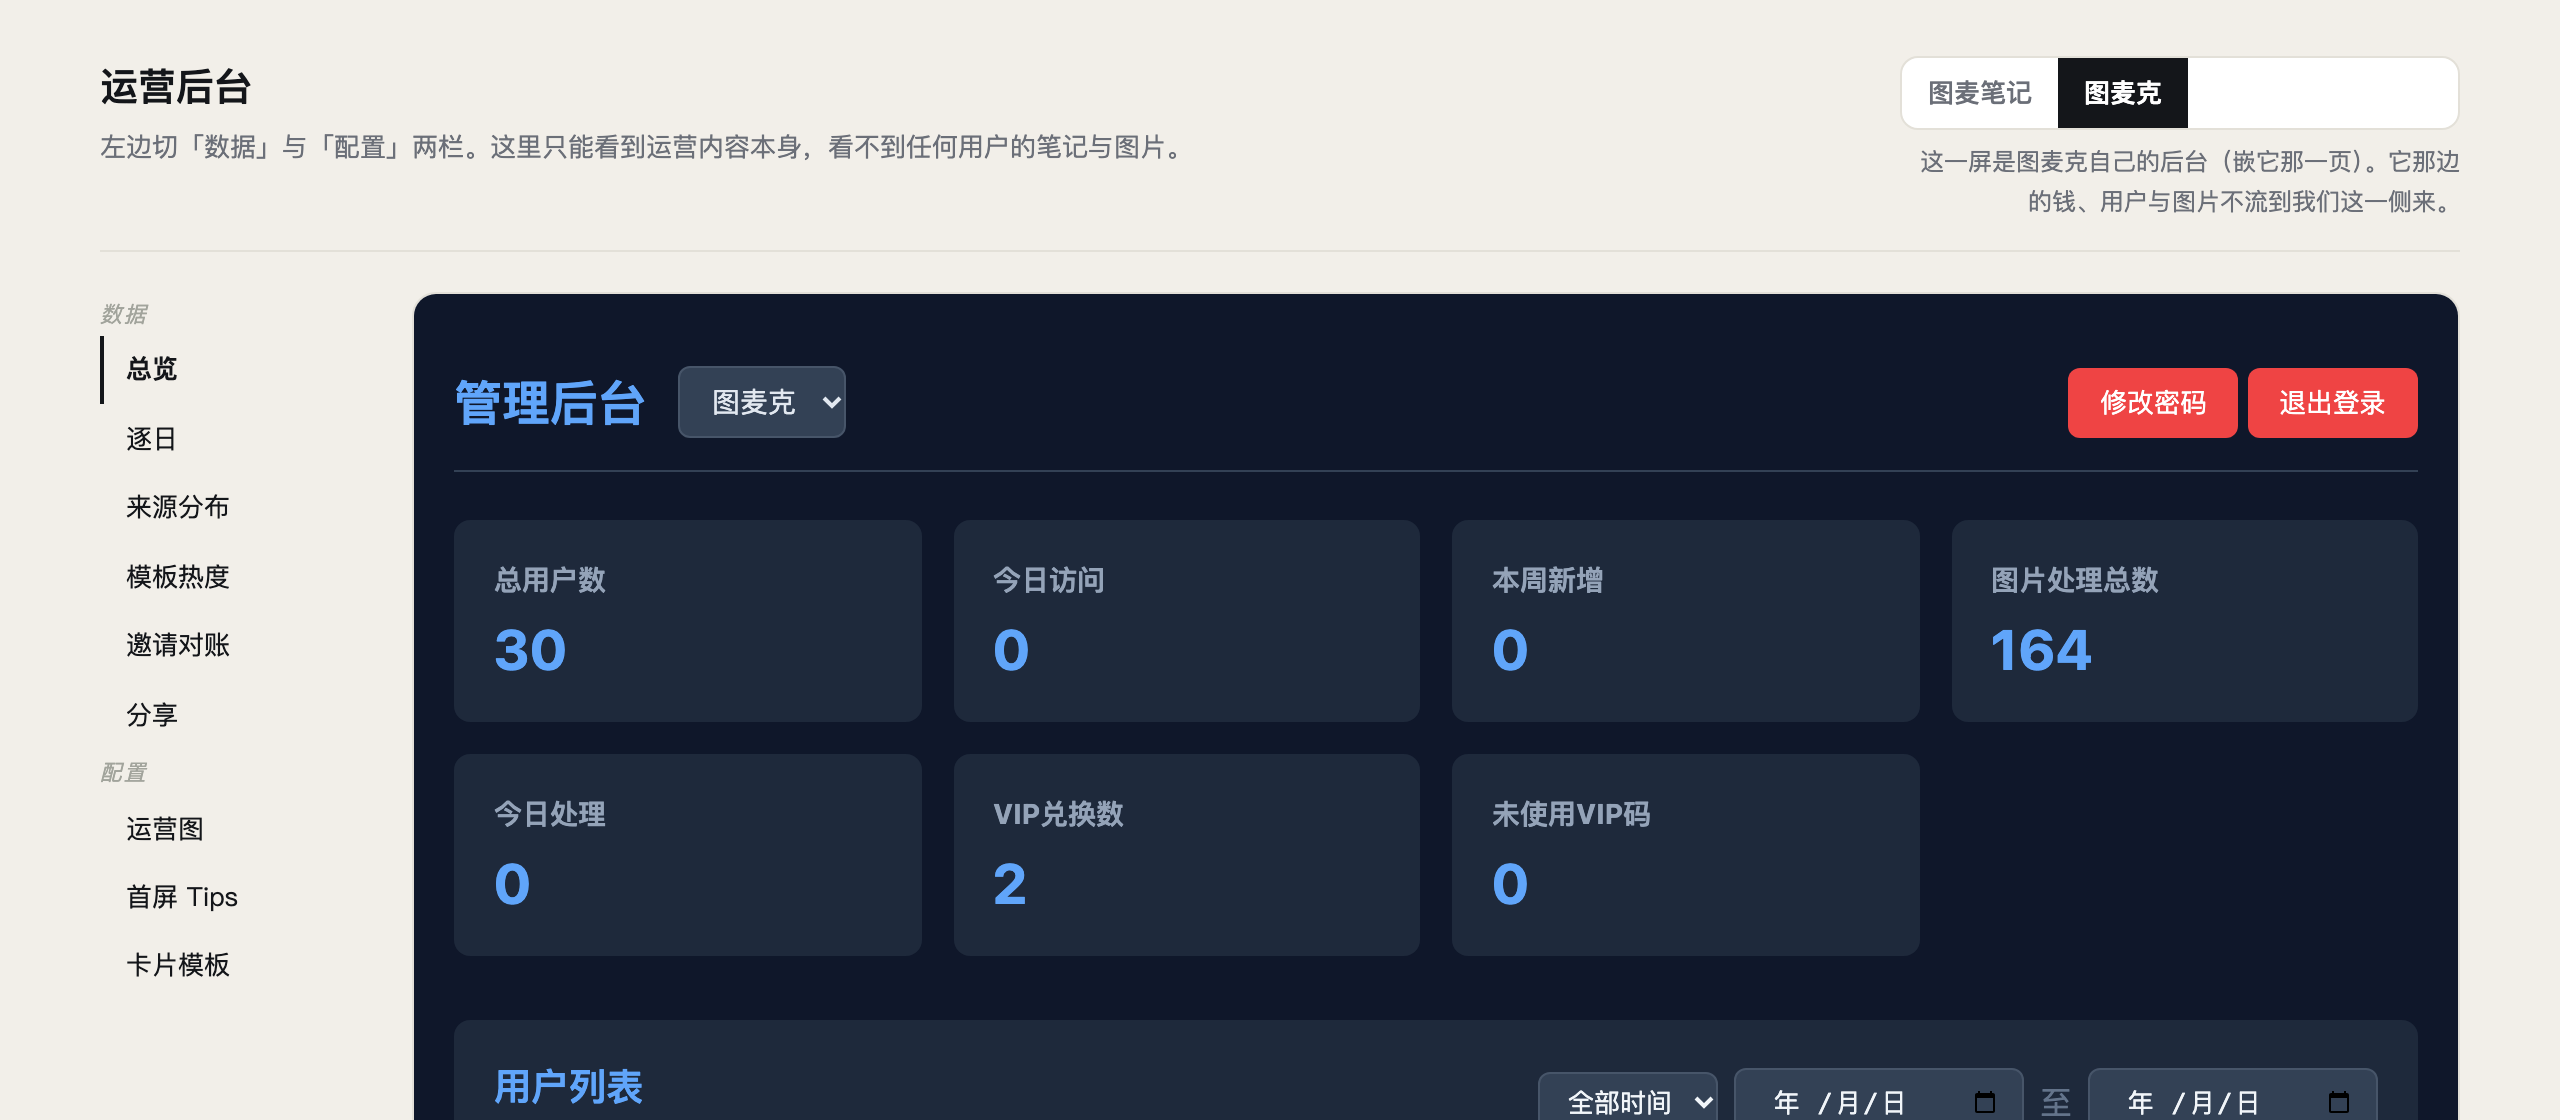
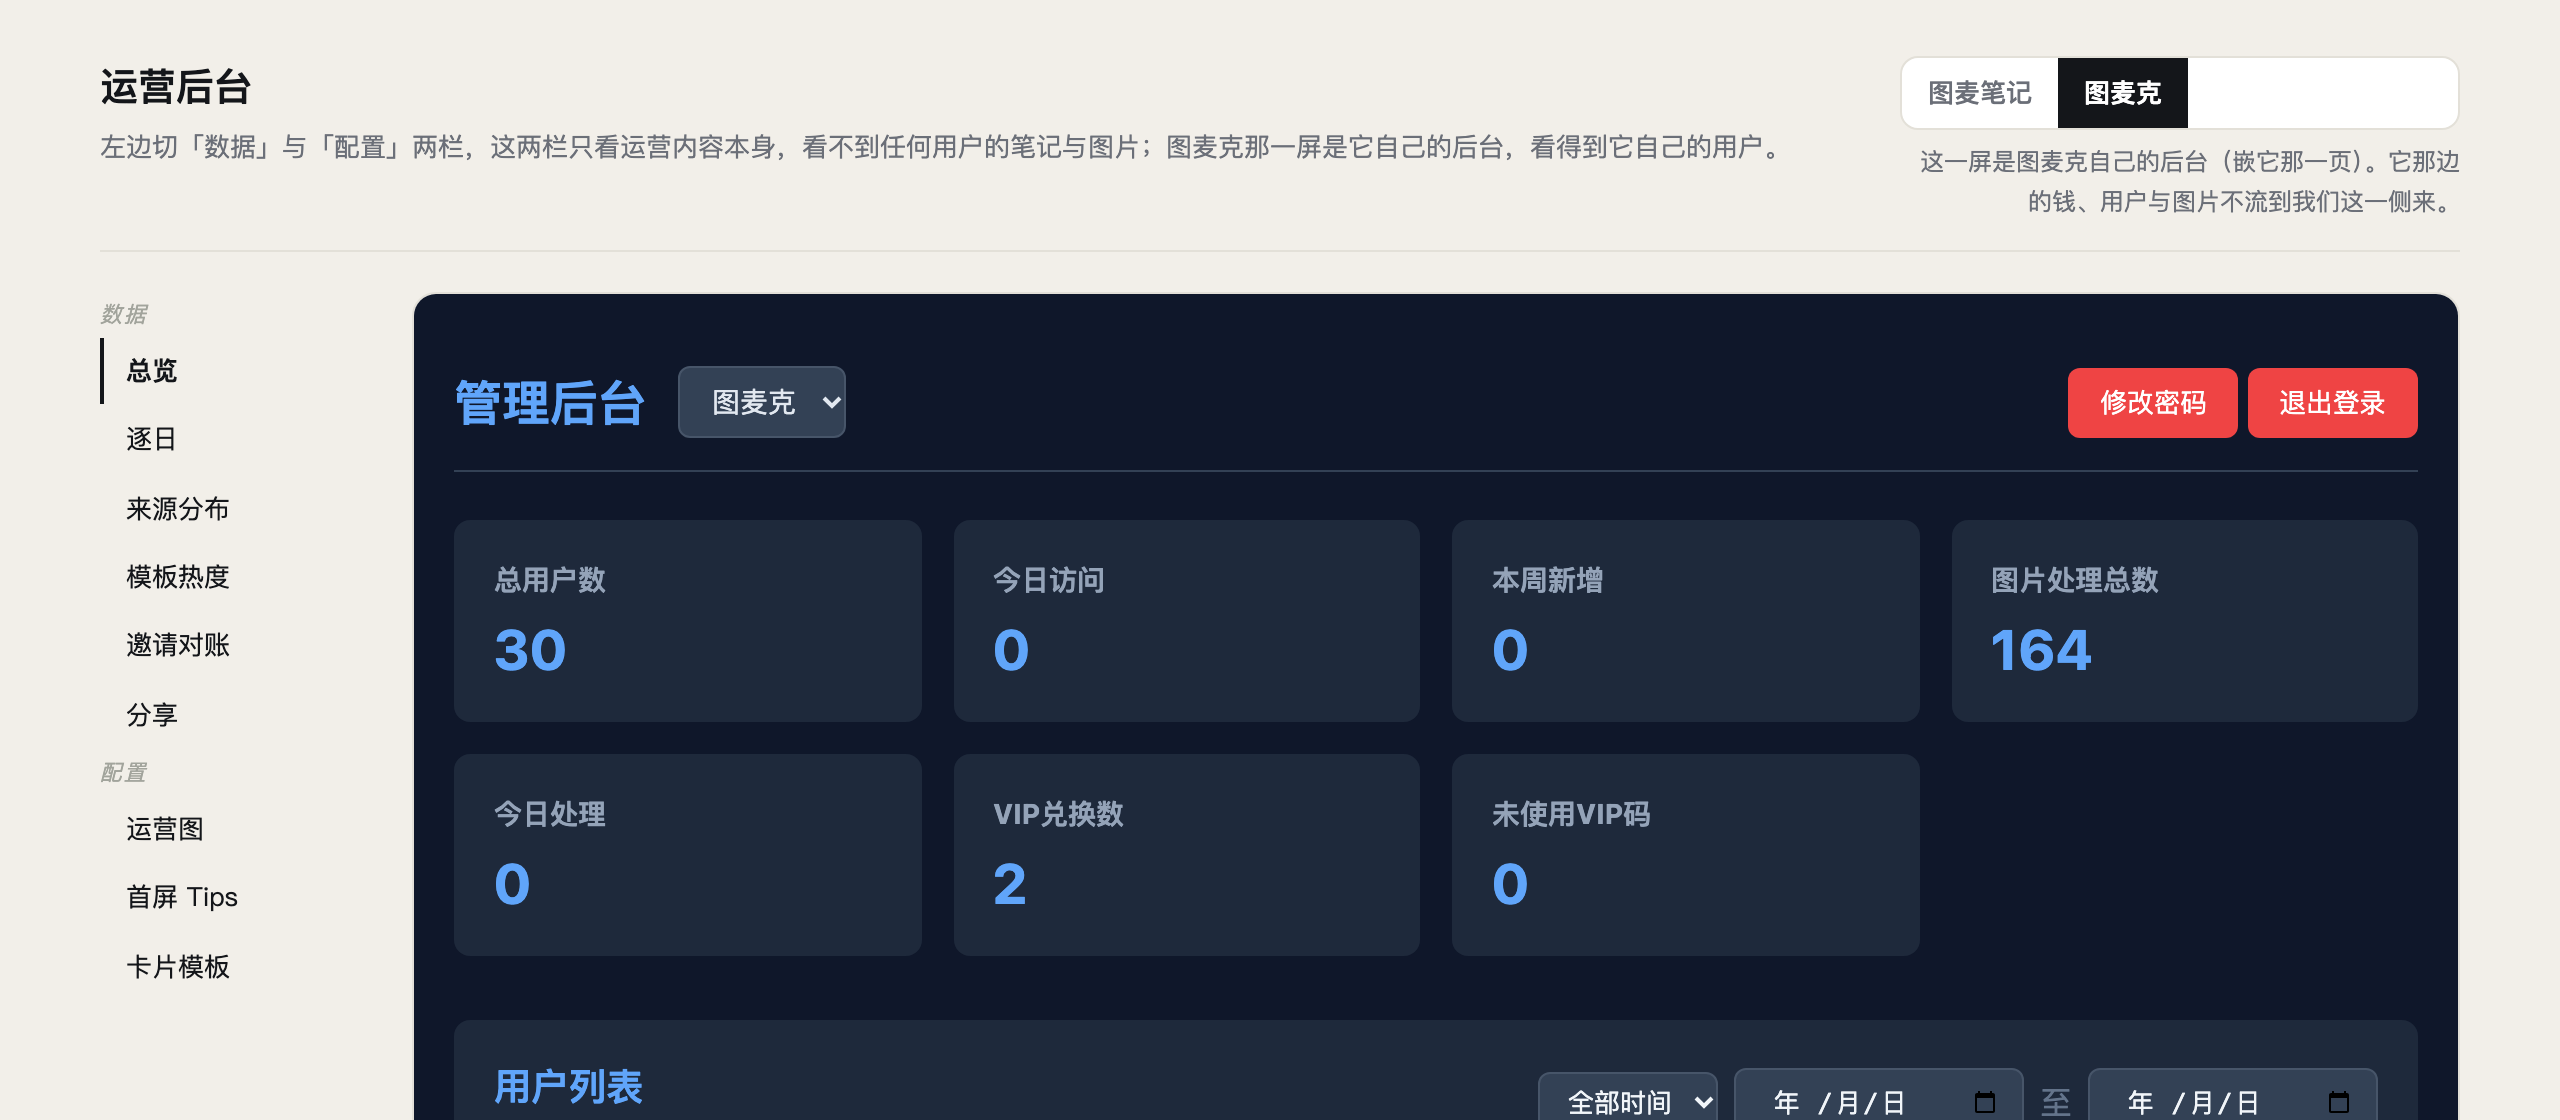
§8.272 补记第三十一次部署（顶上那句"看不到任何用户"加了限定）与重跑后的屏照
现网真点重跑 19 条全过、探针 45 条全过；四张屏照是这一版重拍的（frame 那一屏的截图带上了改后的那一句）。

diff --git a/docs/产品需求.md b/docs/产品需求.md
@@ -7540,4 +7540,6 @@ EN 那一门 2 句（包里 6 句）且每句逐字来自现网、且**没有一
 
 **现网真点 14 → 19 条**（读 `contentDocument` 才算真证）：整页没跳走、第四屏切出来且放宽、框里挂的是根路径 `/admin.html`、**里面直接是它的 dashboard 且没再要口令**、读到它自己的数（总用户数 30）、切回我们那屏再切进去状态还在、在框里点退出只清它自己那把不抹壳页那把。屏照 `docs/design/后台融合-自证-20261016/现网-壳页里嵌图麦克原页面.png`。现网探针仍 **45 条全过**。
 
+**眼看屏照时自己抓到的一句假话（第三十一次部署）**：顶上那句一直写的是"这里只能看到运营内容本身，看不到任何用户的笔记与图片"——嵌进它那一页之后，"这里"把 frame 那一屏也算进去了，而往下滚就是它的用户列表（openid、积分、张数）。改成限定到"这两栏"，并把"图麦克那一屏是它自己的后台，看得到它自己的用户"写在同一句里，不藏；判据钉住不许再出现无条件那一版。**这一条不是他提的，是我看自己截图发现的，改的是一句话，但那种话留在屏上就是误导。**
+
 **还欠的（这次没做，等他一句话）**：**皮没统一**——那一屏是它自己那套深色界面，嵌在纸色壳里两块感很明显；统一它要改的是它那一页的样式，那是另一条工作区。"左栏两组按产品各长一份"仍是我自己方案里的，他没提过，不做。
